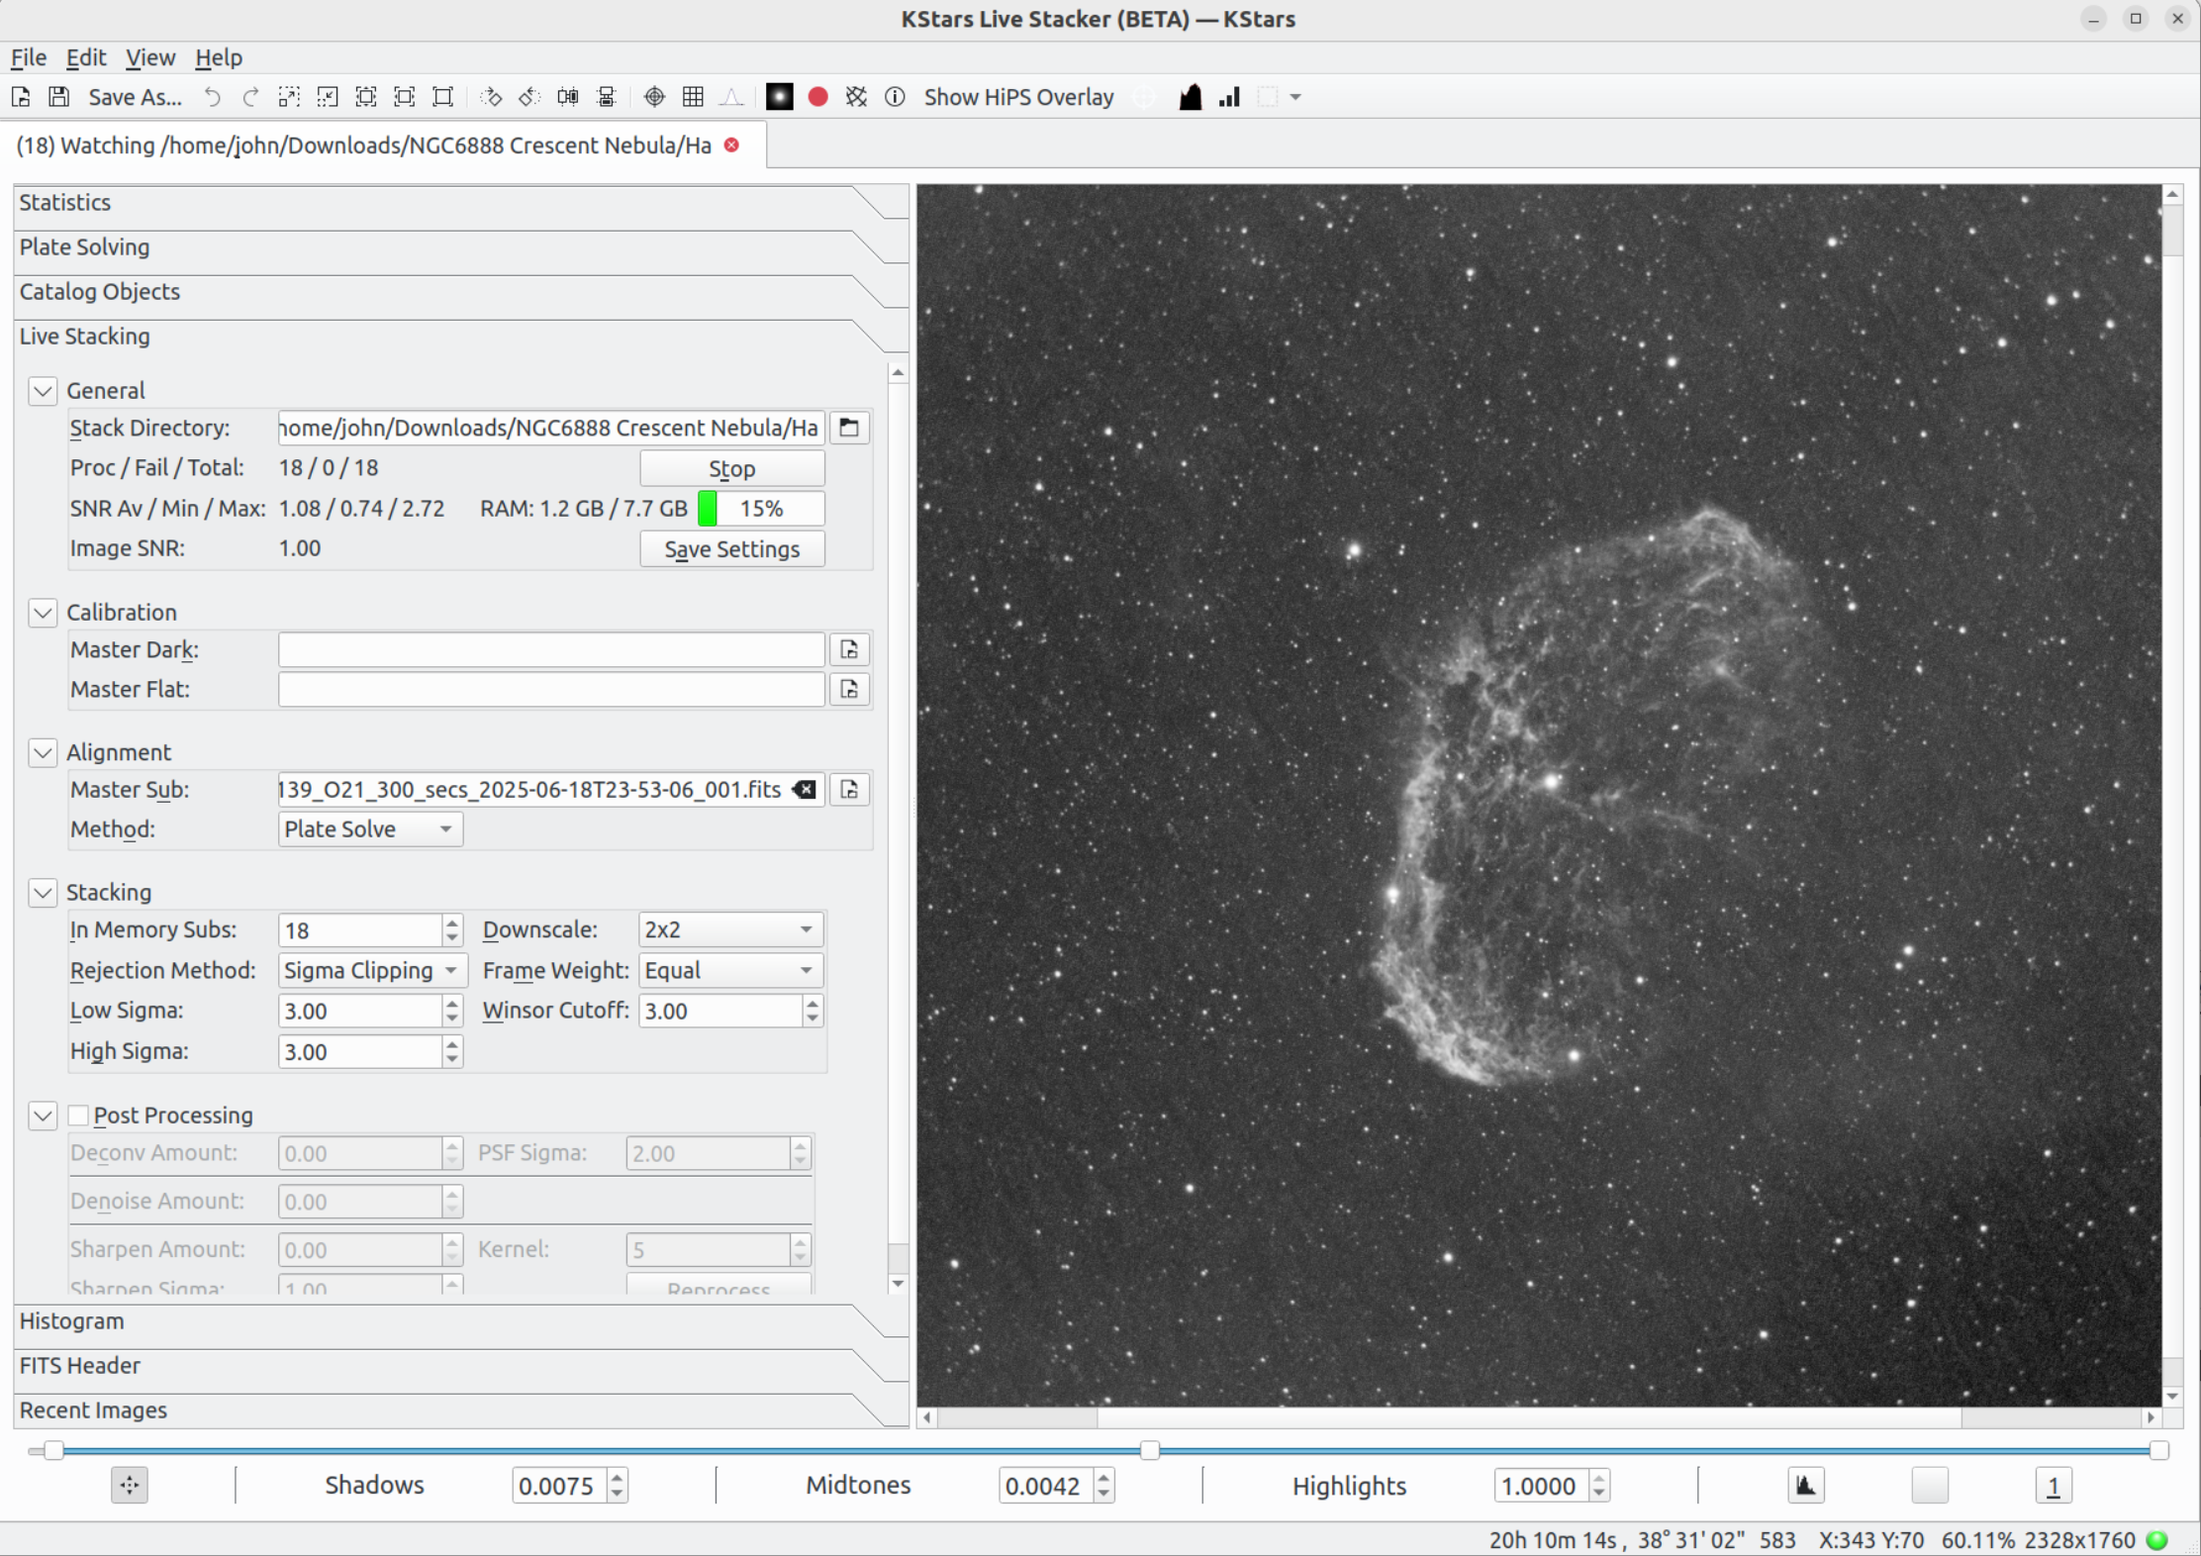
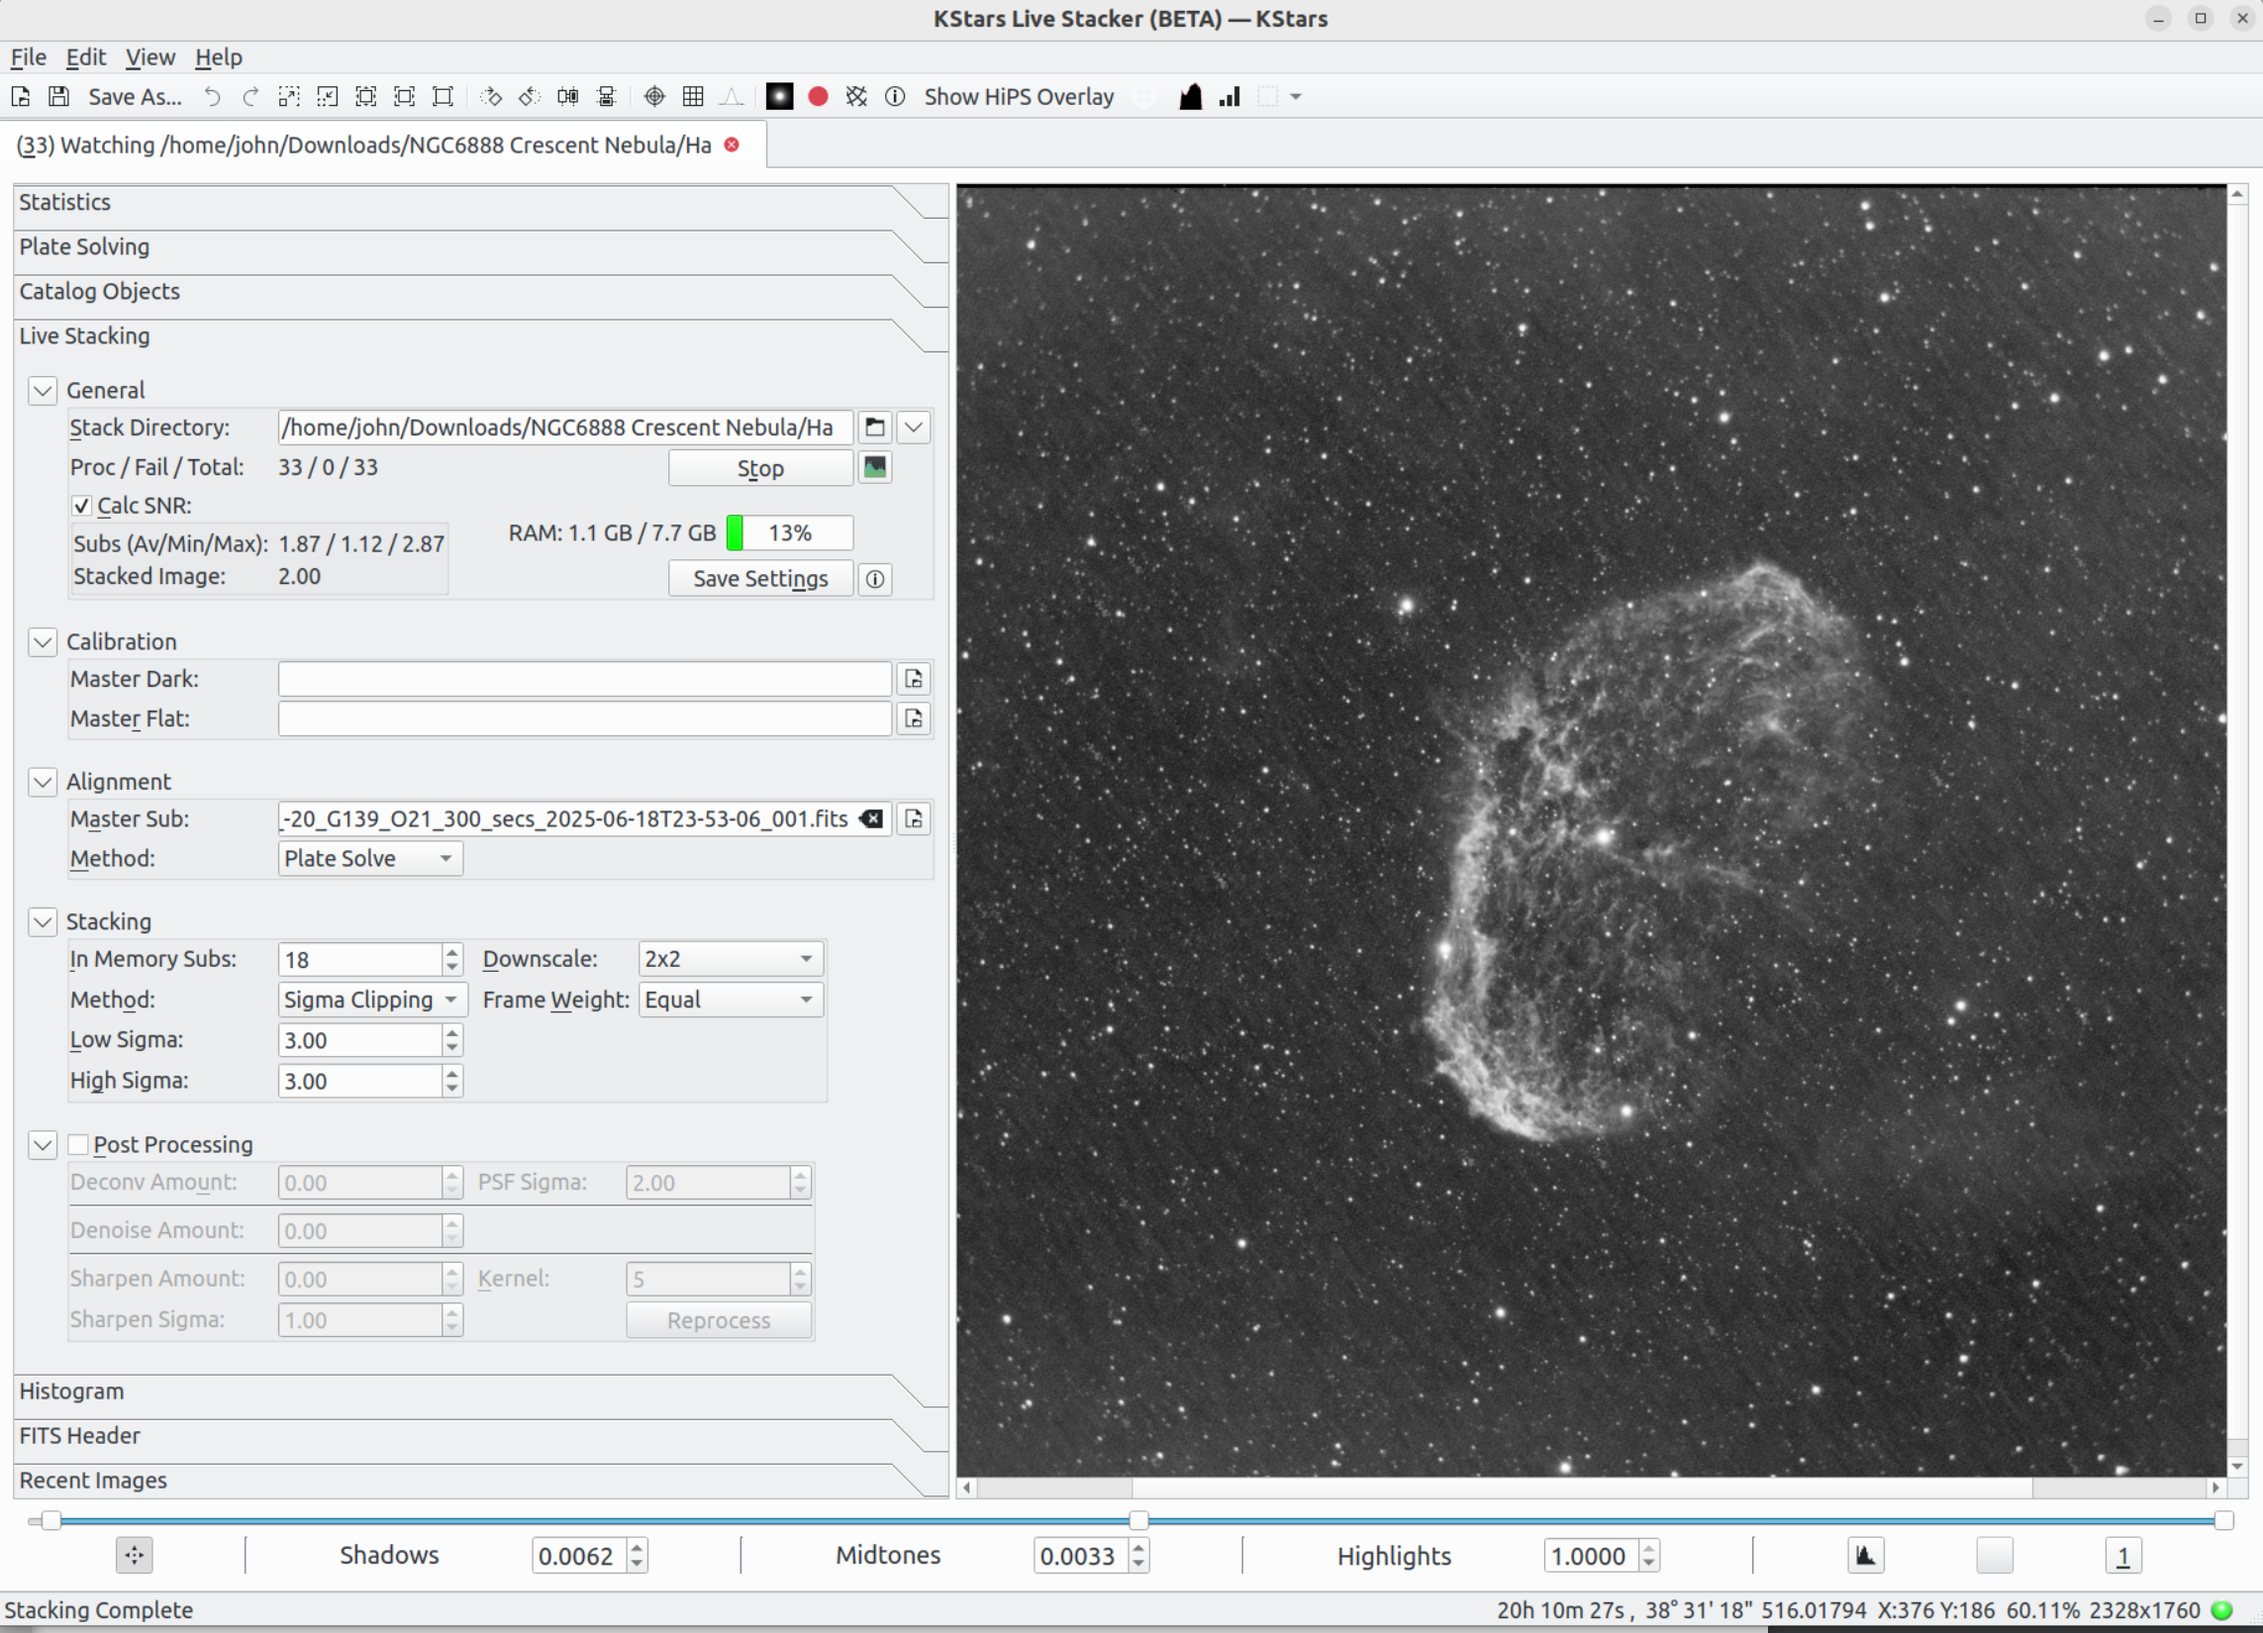
Live Stacker update for Monitor, ImageMM and Multi-Channel processing
Update to Live Stacker documentation including:
Live Stacker Monitor
ImageMM stacking method
Multi-Channel processing

diff --git a/user_manual/fits-viewer-livestacker.rst b/user_manual/fits-viewer-livestacker.rst
@@ -41,6 +41,11 @@ Following is a description of the UI widgets:
     -  Stack Directory Button: Launches a directory dialog box to choose
        a directory.
 
+    -  Multi-Channel (down arrow) button: Toggles between a single channel (either mono
+       or color) subs and multi-channel. Multi-channel allows the user to combine
+       mono subs into a color image. In this mode Red, Green and Blue must be specified
+       and optionally Luminance can be added.
+
     -  Proc / Fail / Total: Output statistics of the number of subs
        Processed successfully, Failed and the Total. The Total is the
        number of subs in the directory.
@@ -58,6 +63,12 @@ Following is a description of the UI widgets:
           completes, the button text resets to "Start" and the user can start
           another stacking process.
 
+    -  Live Stacker Monitor button: Launches the Live Stacker Monitor window. See the
+       section on Live Stacker Monitor for more details.
+
+    -  Calc SNR: Switch to turn on or off calculation of SNR for each sub and the stacked
+       image. Usually useful to turn on, but if performance is key this can be toggled off.
+
     -  SNR Av / Min / Max: Output statistics of the subs processed so
        far. Average SNR / Minimum SNR / Maximum SNR.
 
@@ -72,7 +83,14 @@ Following is a description of the UI widgets:
     -  Save Settings Button. This saves the configuration of the Live
        Stacker to disk.
 
+    -  Help button: Launches web documentation for Live Stacker.
+
     Calibration Settings:
+
+    This section changes depending on whether single channel or multi-channel mode is selected.
+    In single channel mode there is 1 dark and 1 flat associated with the stack dir. In
+    multi-channel mode there is a dark and flat associated with each of the 4 stack dirs: Red,
+    Green, Blue and Luminance.
 
     -  Master Dark: Blank or pathname to a Master Dark .fits file to be
        used to calibrate subs.
@@ -124,9 +142,9 @@ Following is a description of the UI widgets:
        of 2. So the number of pixels in each sub is reduced by a factor of
        4 which will significantly speed up processing
 
-    -  Rejection Method:
+    -  Method:
 
-        -  None: No pixels are rejected.
+        -  Average: Frames are averaged (mean). No pixels are rejected.
 
         -  Sigma Clipping: Sigma Clipping is applied to the first "In Memory
            Subs" to be processed. Once accumulated, a pixel stack is built for
@@ -142,6 +160,13 @@ Following is a description of the UI widgets:
            excluded in Sigma Clipping, they are set to Low Sigma / High Sigma
            and included in the calculation.
 
+        -  ImageMM: The ImageMM stacking method based on this paper:
+           https://iopscience.iop.org/article/10.3847/1538-3881/adfb72
+           Basically this can be thought of as a combination of stacking and deconvolution. The method
+           looks to determine the most likely deconvolved stacked image that would have created the set of
+           observed subs. It uses an iterative approach and is extremely resource intensive.
+           This is an experimental approach at this time.
+
     -  Frame Weighting:
 
         -  Equal: All subs are given an equal weight (=1.0)
@@ -153,17 +178,31 @@ Following is a description of the UI widgets:
            the higher than number of stars detected and the higher the
            weighting.
 
-    -  Low Sigma. This is the number of Standard Deviations on the low side of
-       the median to clip pixels out. Used by the Sigma Clipping and Winsor SC
-       Rejection Methods.
+    -  Low Sigma (Sigma Clipping and Winsor SC Methods). This is the number of Standard
+       Deviations on the low side of the median to clip pixels out.
 
-    -  High Sigma. This is the number of Standard Deviations on the high side of
-       the median to clip pixels out. Used by the Sigma Clipping and Winsor SC
-       Rejection Methods.
+    -  High Sigma (Sigma Clipping and Winsor SC Methods). This is the number of Standard
+       Deviations on the high side of the median to clip pixels out.
 
-    -  Winsor Cutoff. This is the number of Standard Deviations away from the
-       median to use as cutoff to adjust outlying values before running Sigma
-       Clipping.
+    -  Winsor Cutoff (Winsor SC Method). This is the number of Standard Deviations away from
+       the median to use as cutoff to adjust outlying values before running Sigma Clipping.
+
+    -  Iteration (ImageMM). This specifies the maximum number of iterations the
+       algorithm will attempt. Increase the number for more accurate performance but at the
+       expense of performance.
+
+    -  Kappa (ImageMM). Clamps iterative updates in the range 1/kappa to kappa. So kappa=1 means no update
+       for the iteration. Increase kappa for bigger updates but if you see signs of over
+       "deconvolving" the image then reduce kappa.
+
+    -  Alpha (ImageMM). Damping between iterations by blending alpha * this iteration with
+       (1 - alpha) * last iteration.
+
+    -  Sigma Scale (ImageMM). Reduce calculated image sigma by this scale factor. Reduce if you
+       see ringing artifacts.
+
+    -  PSF Update (ImageMM). Update PSF every nth iteration. Set to zero to disable. Updating
+       too frequently can lead to artifacts. This is quite computationally intensive.
 
     Post Processing Settings:
 
@@ -271,6 +310,64 @@ when stacking has finished, to experiment with it.
 To experiment, set one of the options and press Reprocess. You can then adjust the parameter
 and press Reprocess again until you have the optimum settings.
 
+Live Stacker Monitor
+====================
+
+Pressing the Live Stacker Monitor button launches the Live Stacker Monitor window. The purpose
+of the Monitor is to display more infomation at the subframe level about the subs being stacked.
+
+        |FITS Viewer Live Stacker Monitor|
+
+The Monitor displays a grid with 1 row for each sub in the directory / directories selected. The
+columns are configurable: right click on the column header to display a menu of columns that
+may be selected or deselected, or double click a column header to remove a column. In addition,
+the column order may be changed by clicking dragging a column header to a new location.
+
+Single clicking a column sorts the grid on that column and toggles between an ascending sort and
+a descending sort.
+
+The alignment master sub has a yellow background. If a sub fails to process it has a pink
+background. The "Highlighting" checkbox will also highlight cell changes as updates are processed.
+
+Tooltips on the column headers explain what each column represents but in summary the columns
+represent the stacking workflow with relevant information from each step:
+1. Miscellanous columns: ID, pathname, filename, channel(s) and overall status.
+2. Loading: displays timings and status of the load step and SNR of the sub.
+3. Plate Solving: displays timings, status, average HFR, number of stars.
+4. Stack Waiting: displays timings, status of a sub once loaded before the next stacking step.
+5. Calibration: displays timings, status. Note that calibration is optional.
+6. Alignment: displays timings, status and x, y and rotation of the sub to align with the master.
+7. Stacking: displays timings, status and stacking weight.
+
+A good way to use the Monitor is to select columns that are relevant to you and order by the ID
+column so most recent subs are at the top.
+
+Single Channel vs Multi-Channel Mode
+====================================
+
+Live Stacker starts in single channel mode. This allows a single stack of either mono or color
+subs.
+
+It is also possible to create color images from individual stacks of mono images. To do this,
+activate multi-channel mode by expanding the stack directory dropdown toggle (see the red box
+below) which will then display input directories for Red, Green, Blue and Luminance.
+
+        |FITS Viewer Live Stacker MultiChannel|
+
+Live Stacker will then stack files in each of the directories and then watch the directories for
+new files. If an RGB stack is required, fill in Red, Green and Blue (and leave Luminance blank).
+Live Stacker will then process a stack for each channel, apply a "linear fit" between channels,
+and combine into a color image for display.
+
+Optionally, a Luminance channel can be added to produce an LRGB image. In this mode, the
+RGB channels are combined with the Luminance channel to produce a single color image.
+
+Narrowband filter stacks can be combined into color images: SHO, HOO, etc.
+
+If less than 3 stacks are available, for example whilst doing an HOO image, fill in the same
+directory to the appropriate channels. E.g. for an HOO image set Red to the Hydrogen directory and
+Green and Blue to the Oxygen directory.
+
 Running Live Stackers
 =====================
 
@@ -336,4 +433,6 @@ manual for more information.
 
 
 .. |FITS Viewer Live Stacker| image:: /images/fitsviewer-livestacker.png
+.. |FITS Viewer Live Stacker Monitor| image:: /images/fitsviewer-livestacker-monitor.png
+.. |FITS Viewer Live Stacker MultiChannel| image:: /images/fitsviewer-livestacker-mchan.png
 .. |FITS Viewer Live Stacker Options| image:: /images/fitsviewer-livestacker-options.png
